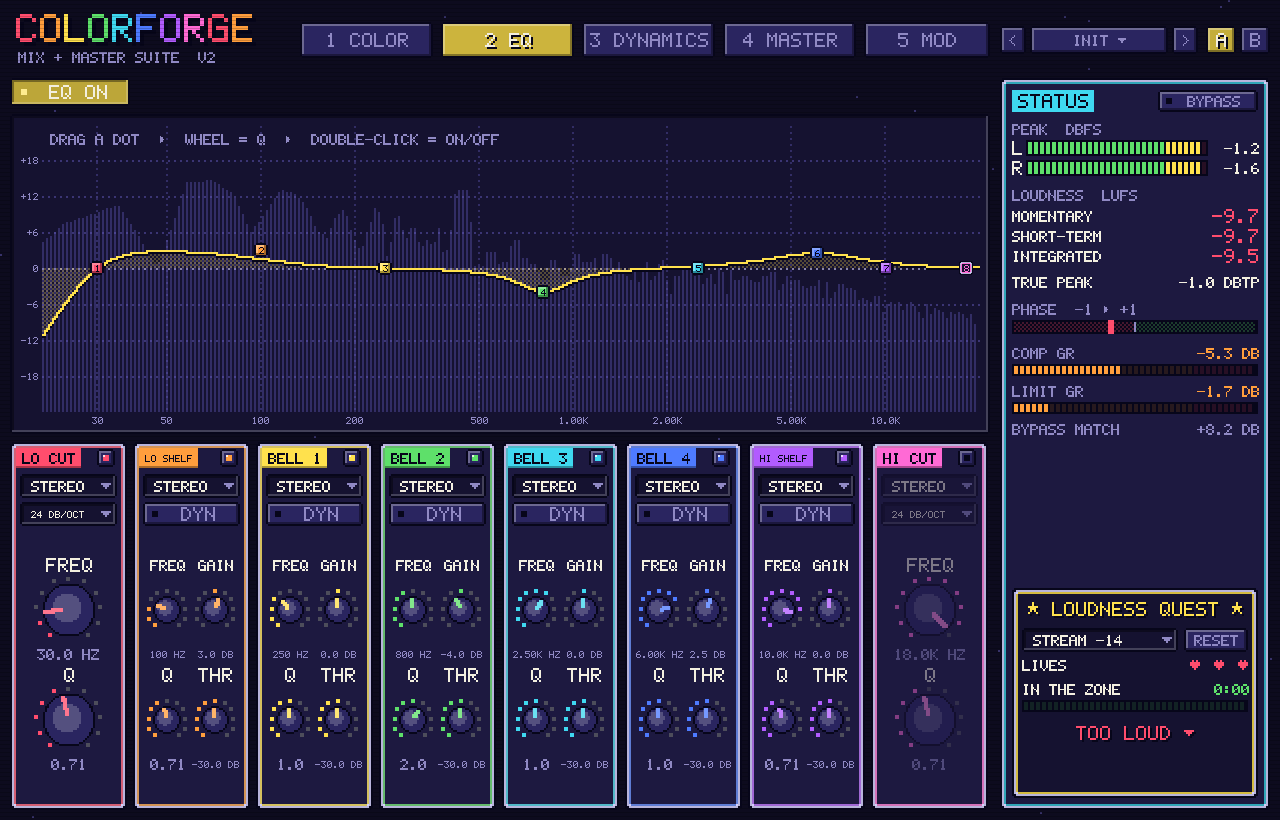
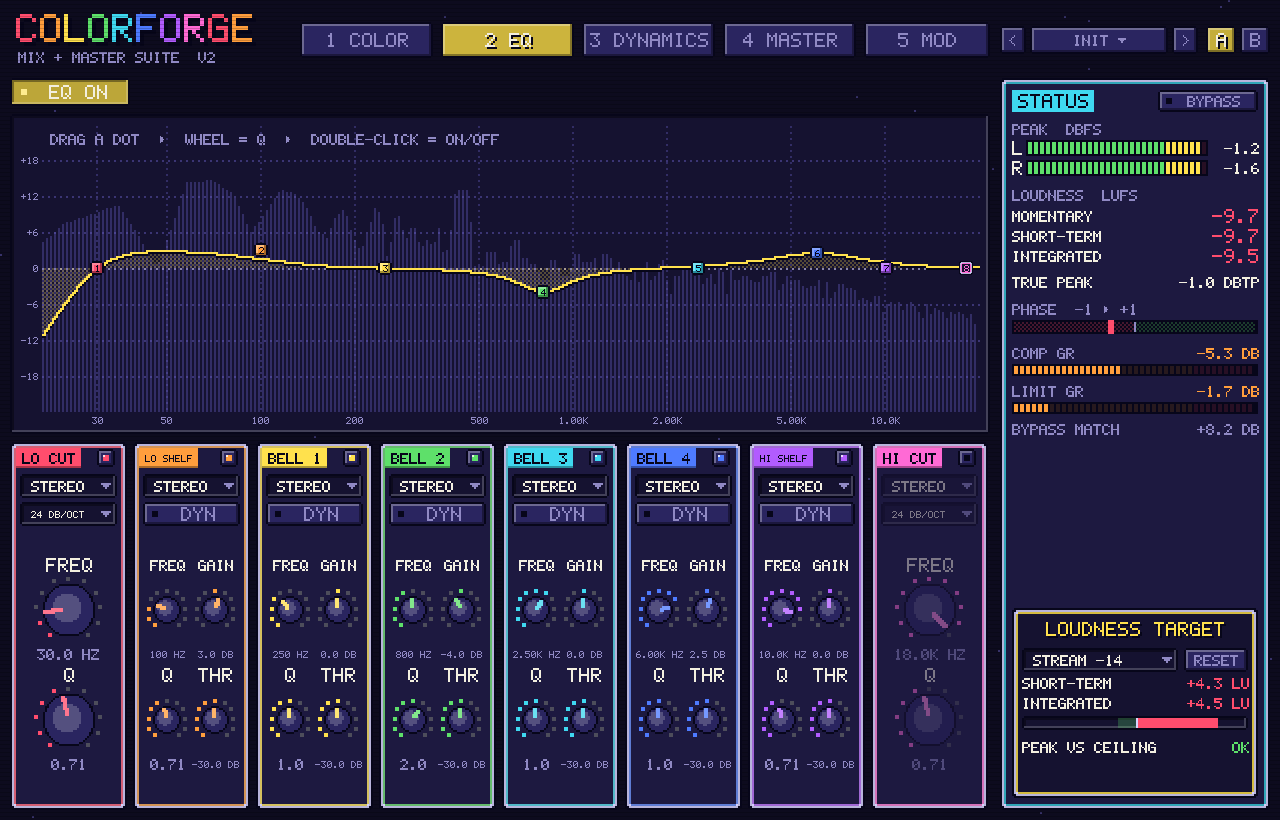
Drop the loudness quest; keep the 8-bit look only
The STATUS column's quest (lives, time in the zone, stage clear) becomes a
plain loudness-target readout: short-term and integrated loudness in LU
from the chosen target, a deviation bar, and true peak against the
limiter ceiling. Roadmap: no achievements or other game layers.

Claude-Session: https://claude.ai/code/session_01CSZBUD9jxwq6uTRRhoK3NL

Changed region(s): [[0.7812, 0.7012, 1.0, 0.9146]]

diff --git a/Source/PluginEditor.cpp b/Source/PluginEditor.cpp
@@ -1556,20 +1556,18 @@ StatusPanel::StatusPanel (ColorForgeAudioProcessor& p) : processor (p)
     targetBox.setSelectedId ((int) processor.apvts.state.getProperty (ColorForgeAudioProcessor::kLufsTargetProp, 2) + 1,
                              juce::dontSendNotification);
     targetBox.getProperties().set ("pxScale", 1.5f);
-    targetBox.setTooltip ("Loudness target for the quest (integrated / short-term LUFS)");
+    targetBox.setTooltip ("Loudness target (LUFS) to compare the short-term and integrated loudness against");
     targetBox.onChange = [this]
     {
         processor.apvts.state.setProperty (ColorForgeAudioProcessor::kLufsTargetProp, targetBox.getSelectedId() - 1, nullptr);
-        zoneSeconds = 0.0;
     };
     addAndMakeVisible (targetBox);
 
     resetButton.getProperties().set ("pxScale", 1.5f);
-    resetButton.setTooltip ("Reset the integrated loudness, true peak and quest timer");
+    resetButton.setTooltip ("Reset the integrated loudness and the true-peak hold");
     resetButton.onClick = [this]
     {
         processor.meter.resetRequested.store (true);
-        zoneSeconds = 0.0;
     };
     addAndMakeVisible (resetButton);
 
@@ -1589,11 +1587,11 @@ float StatusPanel::targetLufs() const
 void StatusPanel::resized()
 {
     auto r = getLocalBounds().reduced (12);
-    questArea = r.removeFromBottom (210);
+    targetArea = r.removeFromBottom (190);
     metersArea = r;
     bypassButton.setBounds (r.removeFromTop (22).removeFromRight (100));
 
-    auto q = questArea.reduced (10).withTrimmedTop (30);
+    auto q = targetArea.reduced (10).withTrimmedTop (30);
     auto row = q.removeFromTop (24);
     resetButton.setBounds (row.removeFromRight (64));
     row.removeFromRight (6);
@@ -1614,14 +1612,7 @@ void StatusPanel::update()
     limGr = processor.getLimiterGainReductionDb();
     matchDb = processor.getBypassMatchDb();
 
-    // the quest timer only runs while the short-term loudness sits in the target zone
-    const auto now = juce::Time::getMillisecondCounter();
-    const double dt = lastTick == 0 ? 0.0 : juce::jlimit (0.0, 0.25, (double) (now - lastTick) * 0.001);
-    lastTick = now;
-    if (lufsS > cf::LoudnessMeter::kFloor + 0.5f && std::abs (lufsS - targetLufs()) <= 1.0f)
-        zoneSeconds += dt;
 
-    ++frame;
     repaint();
 }
 
@@ -1726,63 +1717,59 @@ void StatusPanel::paint (juce::Graphics& g)
         value (row, (matchDb >= 0.0f ? "+" : "") + juce::String (matchDb, 1) + " DB", byp ? pal::red : pal::dim, 1.5f);
     }
 
-    // ---- quest
-    auto q = questArea.toFloat();
+    // ---- loudness target: how far the mix sits from the chosen target and the ceiling
+    auto q = targetArea.toFloat();
     windowFrame (g, q, U, pal::yellow.darker (0.2f), pal::bgAlt);
     auto qi = q.reduced (10.0f);
-    {
-        juce::String t;
-        t << (juce::juce_wchar) 1 << " LOUDNESS QUEST " << (juce::juce_wchar) 1;
-        drawTextIn (g, t, qi.removeFromTop (22.0f), juce::Justification::centred, 2.0f, pal::yellow, true);
-    }
+    drawTextIn (g, "LOUDNESS TARGET", qi.removeFromTop (22.0f), juce::Justification::centred, 2.0f, pal::yellow, true);
     qi.removeFromTop (36.0f);   // target box + reset button live here
 
-    // lives: hearts lost by overshooting the ceiling / clipping (true peak max hold)
-    const float ceil = processor.apvts.getRawParameterValue ("lmCeiling")->load();
-    const int hearts = truePeak <= ceil + 0.05f ? 3 : (truePeak <= 0.0f ? 2 : (truePeak <= 1.0f ? 1 : 0));
-    {
-        auto row = qi.removeFromTop (18.0f);
-        label (row, "LIVES", pal::text);
-        juce::String h;
-        for (int i = 0; i < 3; ++i)
-            h << (juce::juce_wchar) 2 << " ";
-        auto heartsArea = row.removeFromRight (textWidth (h.trimEnd(), 2.0f));
-        for (int i = 0; i < 3; ++i)
-        {
-            juce::String one;
-            one << (juce::juce_wchar) 2;
-            drawText (g, one, heartsArea.getX() + (float) i * 24.0f, heartsArea.getCentreY() - 7.0f, 2.0f,
-                      i < hearts ? pal::red : pal::edgeDark.brighter (0.5f));
-        }
-    }
-    qi.removeFromTop (8.0f);
+    const bool hasSignal = lufsS > cf::LoudnessMeter::kFloor + 0.05f;
+    auto luText = [] (float d) { return (d >= 0.0f ? "+" : "") + juce::String (d, 1) + " LU"; };
+    auto luColour = [] (float d) { return std::abs (d) <= 1.0f ? pal::green : (d > 0.0f ? pal::red : pal::cyan); };
 
-    // progress: 30 seconds in the zone clears the stage
-    constexpr double goal = 30.0;
-    const float progress = (float) juce::jlimit (0.0, 1.0, zoneSeconds / goal);
+    for (int i = 0; i < 2; ++i)
     {
+        const float v = i == 0 ? lufsS : lufsI;
+        const bool valid = v > cf::LoudnessMeter::kFloor + 0.05f;
         auto row = qi.removeFromTop (14.0f);
-        label (row, "IN THE ZONE", pal::text);
-        const int secs = (int) zoneSeconds;
-        value (row, juce::String (secs / 60) + ":" + juce::String (secs % 60).paddedLeft ('0', 2), pal::green, 1.5f);
-        qi.removeFromTop (4.0f);
-        segmentBar (g, qi.removeFromTop (12.0f), U, progress, pal::green, pal::green, pal::yellow, 0.99f, 1.0f);
+        label (row, i == 0 ? "SHORT-TERM" : "INTEGRATED", pal::text);
+        value (row, valid ? luText (v - target) : juce::String ("--"), valid ? luColour (v - target) : pal::dim, 1.5f);
+        qi.removeFromTop (6.0f);
+    }
+
+    // deviation bar: the centre line is the target, +-6 LU either side
+    {
+        auto bar = qi.removeFromTop (14.0f);
+        bevel (g, bar, U, pal::bgAlt, true);
+        auto inner = bar.reduced (U);
+        const float mid = std::round (inner.getCentreX() / U) * U;
+        g.setColour (pal::green.withAlpha (0.25f));
+        g.fillRect (snap (inner.withLeft (mid - inner.getWidth() / 12.0f).withRight (mid + inner.getWidth() / 12.0f)));
+        if (hasSignal)
+        {
+            const float d = juce::jlimit (-6.0f, 6.0f, lufsS - target);
+            const float x = std::round ((mid + d / 6.0f * inner.getWidth() * 0.5f) / U) * U;
+            g.setColour (luColour (lufsS - target));
+            g.fillRect (snap (inner.withLeft (juce::jmin (mid, x)).withRight (juce::jmax (mid, x) + U)));
+        }
+        g.setColour (pal::edgeLight);
+        g.fillRect (mid, inner.getY(), U, inner.getHeight());
     }
     qi.removeFromTop (10.0f);
 
-    juce::String msg;
-    juce::Colour msgColour = pal::dim;
-    if (progress >= 1.0f && hearts == 3)
+    // true peak against the limiter ceiling
     {
-        msg = "STAGE CLEAR!";
-        msgColour = (frame / 8) % 2 == 0 ? pal::yellow : pal::green;
+        const float ceil = processor.apvts.getRawParameterValue ("lmCeiling")->load();
+        const float over = truePeak - ceil;
+        auto row = qi.removeFromTop (14.0f);
+        label (row, "PEAK VS CEILING", pal::text);
+        if (truePeak <= -99.0f)
+            value (row, "--", pal::dim, 1.5f);
+        else
+            value (row, over > 0.05f ? "OVER +" + juce::String (over, 1) + " DB" : juce::String ("OK"),
+                   over > 0.05f ? pal::red : pal::green, 1.5f);
     }
-    else if (lufsS <= cf::LoudnessMeter::kFloor + 0.05f) { msg = "PRESS PLAY"; }
-    else if (std::abs (lufsS - target) <= 1.0f)          { msg = "IN THE ZONE"; msgColour = pal::green; }
-    else if (lufsS < target)                             { msg = "TOO QUIET \x05"; msgColour = pal::cyan; }
-    else                                                 { msg = "TOO LOUD \x03"; msgColour = pal::red; }
-
-    drawTextIn (g, msg, qi.removeFromTop (22.0f), juce::Justification::centred, 2.0f, msgColour, true);
 }
 //==============================================================================
 LfoScope::LfoScope (ColorForgeAudioProcessor& p, int lfoIndex, juce::Colour c)

diff --git a/Source/PluginEditor.h b/Source/PluginEditor.h
@@ -259,7 +259,7 @@ private:
 };
 
 //==============================================================================
-/** Short-term loudness over the last minute, with the quest target zone. */
+/** Short-term loudness over the last minute, with the target zone. */
 class LoudnessHistory : public juce::Component
 {
 public:
@@ -299,7 +299,7 @@ private:
 };
 
 //==============================================================================
-/** The processing chain drawn as a game-style level map; lit nodes are on. */
+/** The processing chain as a node map; lit nodes are on. */
 class SignalPath : public juce::Component
 {
 public:
@@ -329,7 +329,7 @@ private:
 
 //==============================================================================
 /** Always-visible right column: peak / loudness / correlation / GR meters
-    and the loudness "quest". */
+    and the loudness target readout. */
 class StatusPanel : public juce::Component
 {
 public:
@@ -351,11 +351,7 @@ private:
 
     float peakL = -100.0f, peakR = -100.0f, lufsM = -70.0f, lufsS = -70.0f, lufsI = -70.0f;
     float truePeak = -100.0f, corr = 0.0f, compGr = 0.0f, limGr = 0.0f;
-    double zoneSeconds = 0.0;
-    juce::uint32 lastTick = 0;
-    int frame = 0;
-
-    juce::Rectangle<int> metersArea, questArea;
+    juce::Rectangle<int> metersArea, targetArea;
 
     JUCE_DECLARE_NON_COPYABLE_WITH_LEAK_DETECTOR (StatusPanel)
 };

diff --git a/Source/Params.h b/Source/Params.h
@@ -69,7 +69,7 @@ inline juce::String eqId (int band, const char* suffix)
     return "eq" + juce::String (band + 1) + suffix;
 }
 
-/** Loudness targets for the "quest" readout (LUFS integrated). */
+/** Loudness targets for the status readout (LUFS). */
 struct LoudnessTarget { const char* name; float lufs; };
 inline constexpr LoudnessTarget kLoudnessTargets[] =
 {

diff --git a/docs/ROADMAP.md b/docs/ROADMAP.md
@@ -2,8 +2,8 @@
 
 Goal: one VST3 (plus the standalone player) that can take a track or a full mix from raw to
 release-ready, while keeping the color-bass chain as one of its modules. Every control is a host
-parameter, so all of it can be automated in a DAW. The interface gets an original 8-bit, game-style
-look.
+parameter, so all of it can be automated in a DAW. The interface gets an original 8-bit pixel look
+(visual theme only, no game mechanics).
 
 ## What the popular tools offer
 
@@ -39,7 +39,7 @@ Each phase ships as its own pull request and keeps the MinGW build working.
 - **Loudness meters**: LUFS momentary, short-term and integrated (BS.1770 K-weighting), true peak, stereo correlation, gain reduction.
 - **Input gain, mono-bass below a frequency, master bypass per module.**
 - **No pitch-map latency when the pitch map is off** (it currently adds about 85 ms even when off).
-- **8-bit game UI**: pixel font, pixel knobs and switches, a limited palette, tabbed "worlds" (COLOR, EQ, DYNAMICS, MASTER), HP-bar style meters and a loudness-target "quest" readout.
+- **8-bit pixel UI**: pixel font, pixel knobs and switches, a limited palette, tabbed pages (COLOR, EQ, DYNAMICS, MASTER), segment-bar meters and a loudness-target readout.
 
 ### Phase 2: workflow (done, PRs #2 and #3)
 - Done: factory presets (mix bus, master, vocal, drums, color bass) and user presets on disk.
@@ -65,5 +65,4 @@ Each phase ships as its own pull request and keeps the MinGW build working.
 ### Phase 5: assistants and polish
 - Reference-track spectrum match and loudness match in the player.
 - "Starting point" chain suggestions from the analyzed spectrum.
-- Achievements and other game layers in the UI (for example a badge for hitting a loudness target without clipping).
 - CI builds for every PR, a smoke test in a DAW, and an installer.

diff --git a/README.md b/README.md
@@ -25,7 +25,7 @@ Every module has its own bypass, and every control is a host parameter, so all o
 | **A/B** | Two snapshots for comparing settings; the preset menu copies one into the other. Kept for the session, not saved with the project. |
 | **Chain order** | Drag EQ, COMP, SAT and STEREO around on the DYNAMICS page's signal-path map. The order is saved with the session and in presets. |
 | **Modulation** | MOD page: two LFOs (sine, triangle, saws, square, random; free in Hz or synced to the host tempo from 4 bars to 1/16), an envelope follower on the input, and four macro knobs. An 8-slot matrix routes any of them to 38 targets (EQ gains and frequencies, compressor, saturator, width, limiter gain, levels and the color FX). Knobs show a white pip where modulation is taking them; the knob itself (and its automation) stays where you set it. |
-| **Loudness quest** | Pick a target (club, loud, streaming -14, podcast, broadcast). Keep the short-term loudness within 1 LU of it for 30 seconds without overshooting the ceiling to clear the stage. |
+| **Loudness target** | Pick a target (club, loud, streaming -14, podcast, broadcast) and the STATUS column shows how many LU the short-term and integrated loudness sit from it, plus whether the true peak went over the limiter ceiling. |
 
 ### Color FX (the original ColorForge chain)
 
